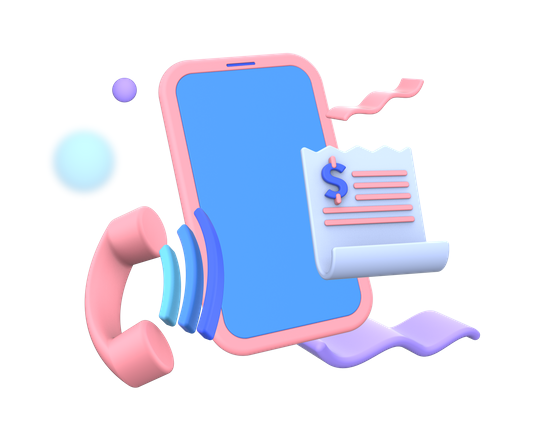
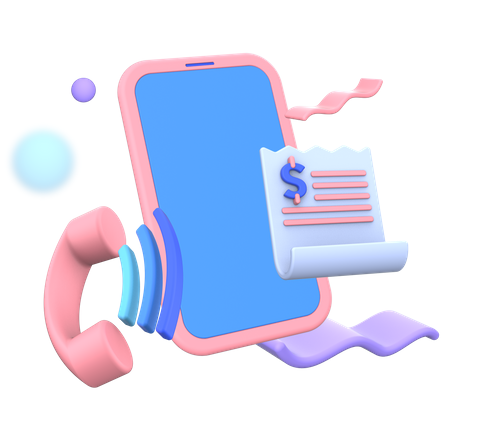
update

diff --git a/app/(pages)/developers/components/Section/index.module.css b/app/(pages)/developers/components/Section/index.module.css
@@ -374,6 +374,7 @@
 
   .sectionListR {
     gap: 150px;
+    padding: 40px 0 40px 0;
   }
 
   .sectionImgL {
@@ -383,7 +384,7 @@
 
   .sectionContextL {
     max-width: 30%;
-    padding: 50px 0 0 0;
+    padding: 60px 0 0 0;
   }
 
   .sectionContextL h1 {
@@ -446,6 +447,7 @@
 
   .sectionListR {
     gap: 200px;
+    padding: 40px 0 40px 0;
   }
 
   .sectionImgL {

diff --git a/app/(pages)/developers/components/Section/index.jsx b/app/(pages)/developers/components/Section/index.jsx
@@ -50,7 +50,7 @@ export default function Section() {
             <picture className={styles.sectionImgL}>
               <FadeInLeft>
                 <Image
-                  src={Cash}
+                  src={Bills}
                   alt="bills image"
                   width={350}
                   height={350}
